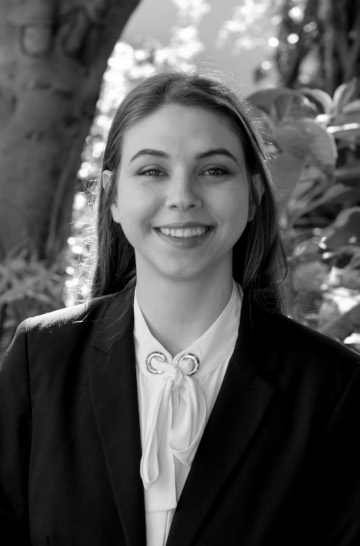
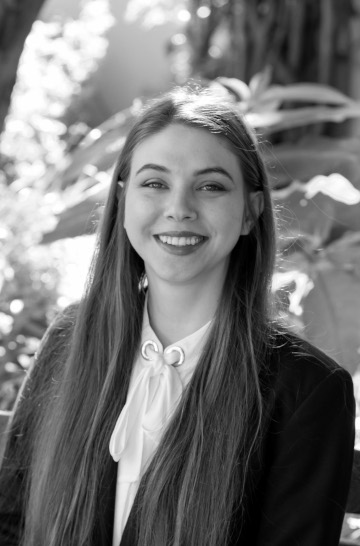
Adjustments to Team.

diff --git a/index.html b/index.html
@@ -1001,8 +1001,8 @@
                                     <div class="swiper-slide">
                                         <!-- Member Image -->
                                         <div class="member">
-                                            <img src="images/team/claudette_inside_bw.jpg"
-                                                data-src="images/team/claudette_inside_bw.jpg"
+                                            <img src="images/team/claudette_outside_bw.jpg"
+                                                data-src="images/team/claudette_outside_bw.jpg"
                                                 alt="claudette armstrong picture">
                                         </div>
                                         <!-- Member Details -->
@@ -1022,8 +1022,8 @@
                                     <div class="swiper-slide">
                                         <!-- Member Image -->
                                         <div class="member">
-                                            <img src="images/team/claudette_inside_col.jpg"
-                                                data-src="images/team/claudette_inside_col.jpg"
+                                            <img src="images/team/claudette_outside_col.jpg"
+                                                data-src="images/team/claudette_outside_col.jpg"
                                                 alt="claudette armstrong picture">
                                         </div>
                                         <!-- Member Details -->
@@ -1206,7 +1206,7 @@
                                         <!-- Member Image -->
                                         <div class="member">
                                             <img src="images/team/team_loading.jpg"
-                                                data-src="images/team/adri_inside_bw.jpg" alt="team member portrait">
+                                                data-src="images/team/adri_outside_bw.jpg" alt="team member portrait">
                                         </div>
                                         <!-- Member Details -->
                                         <div class="member-details">
@@ -1225,7 +1225,7 @@
                                     <div class="swiper-slide">
                                         <!-- Member Image -->
                                         <div class="member">
-                                            <img src="images/team/team_loading.jpg" data-src="images/team/adri_inside_col.jpg"
+                                            <img src="images/team/team_loading.jpg" data-src="images/team/adri_outside_col.jpg"
                                                 alt="team member portrait">
                                         </div>
                                         <!-- Member Details -->
@@ -1917,7 +1917,7 @@
                 <div class="row">
                     <!-- Left Image With Cover Background -->
                     <div class="col-lg-4 col-12 bg-center modal-image-background"
-                        data-background="images/team/jonathan_inside_col.jpg"></div>
+                        data-background="images/team/jonathan_outside_col.jpg"></div>
                     <!-- Right Details -->
                     <div class="col-lg-8 col-12 px-3 bg-white">
                         <!-- Details inner -->
@@ -2051,7 +2051,7 @@
                 <div class="row">
                     <!-- Left Image With Cover Background -->
                     <div class="col-lg-4 col-12 bg-center modal-image-background"
-                        data-background="images/team/adriaan_inside_col.jpg"></div>
+                        data-background="images/team/adriaan_outside_col.jpg"></div>
                     <!-- Right Details -->
                     <div class=" col-lg-8 col-12 px-3 bg-white">
                         <!-- Details inner -->
@@ -2195,7 +2195,7 @@
                 <div class="row">
                     <!-- Left Image With Cover Background -->
                     <div class="col-lg-4 col-12 bg-center modal-image-background"
-                        data-background="images/team/Stephanie_inside_col.jpg"></div>
+                        data-background="images/team/Stephanie_outside_col.jpg"></div>
                     <!-- Right Details -->
                     <div class="col-lg-8 col-12 px-3 bg-white">
                         <!-- Details inner -->
